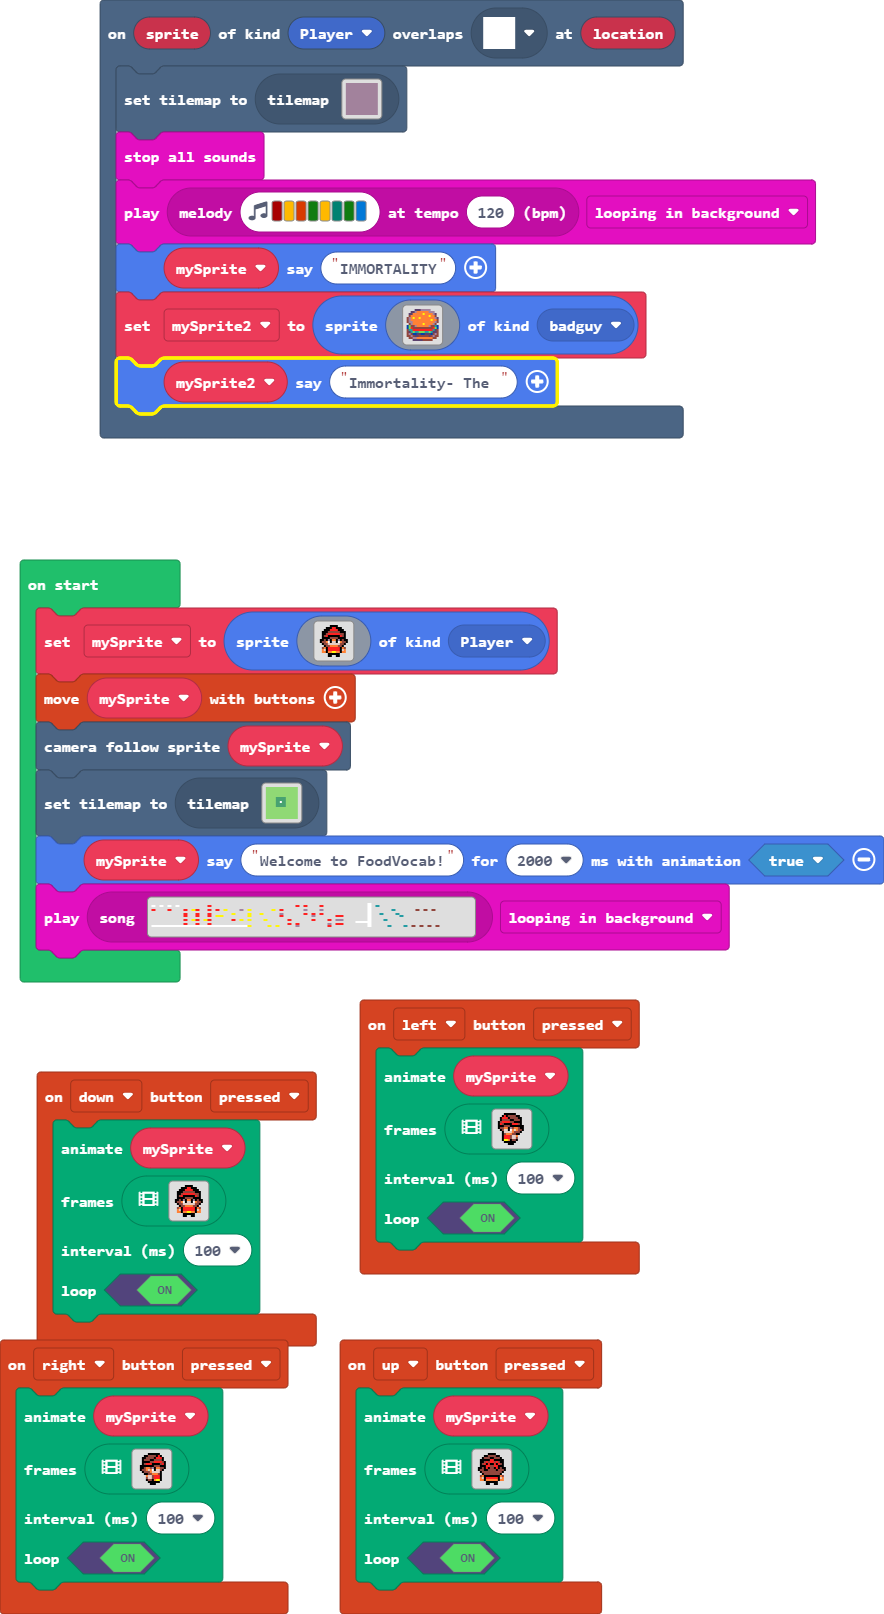
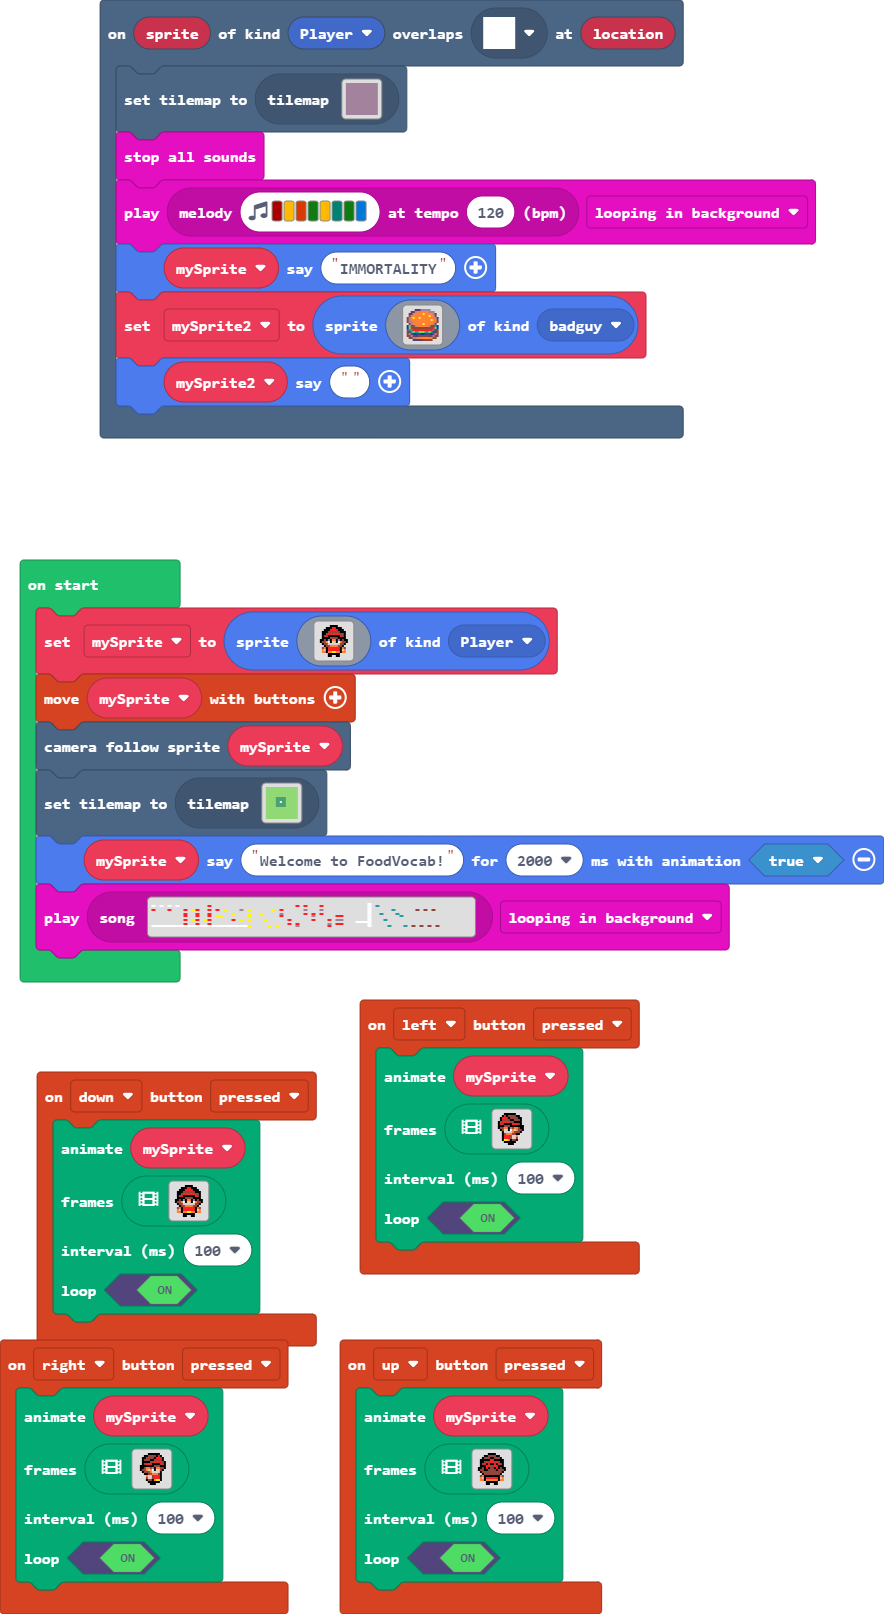
Update main.blocks, main.ts

Changed region(s): [[0.3971, 0.2169, 0.6414, 0.2788], [0.1222, 0.2169, 0.1527, 0.2478]]

diff --git a/main.ts b/main.ts
@@ -101,7 +101,7 @@ scene.onOverlapTile(SpriteKind.Player, assets.tile`myTile`, function (sprite, lo
         . e e b b 4 4 4 4 4 4 4 4 e e . 
         . . . c c c c c e e e e e . . . 
         `, SpriteKind.badguy)
-    mySprite2.sayText("Immortality- The ")
+    mySprite2.sayText("")
 })
 controller.left.onEvent(ControllerButtonEvent.Pressed, function () {
     animation.runImageAnimation(
